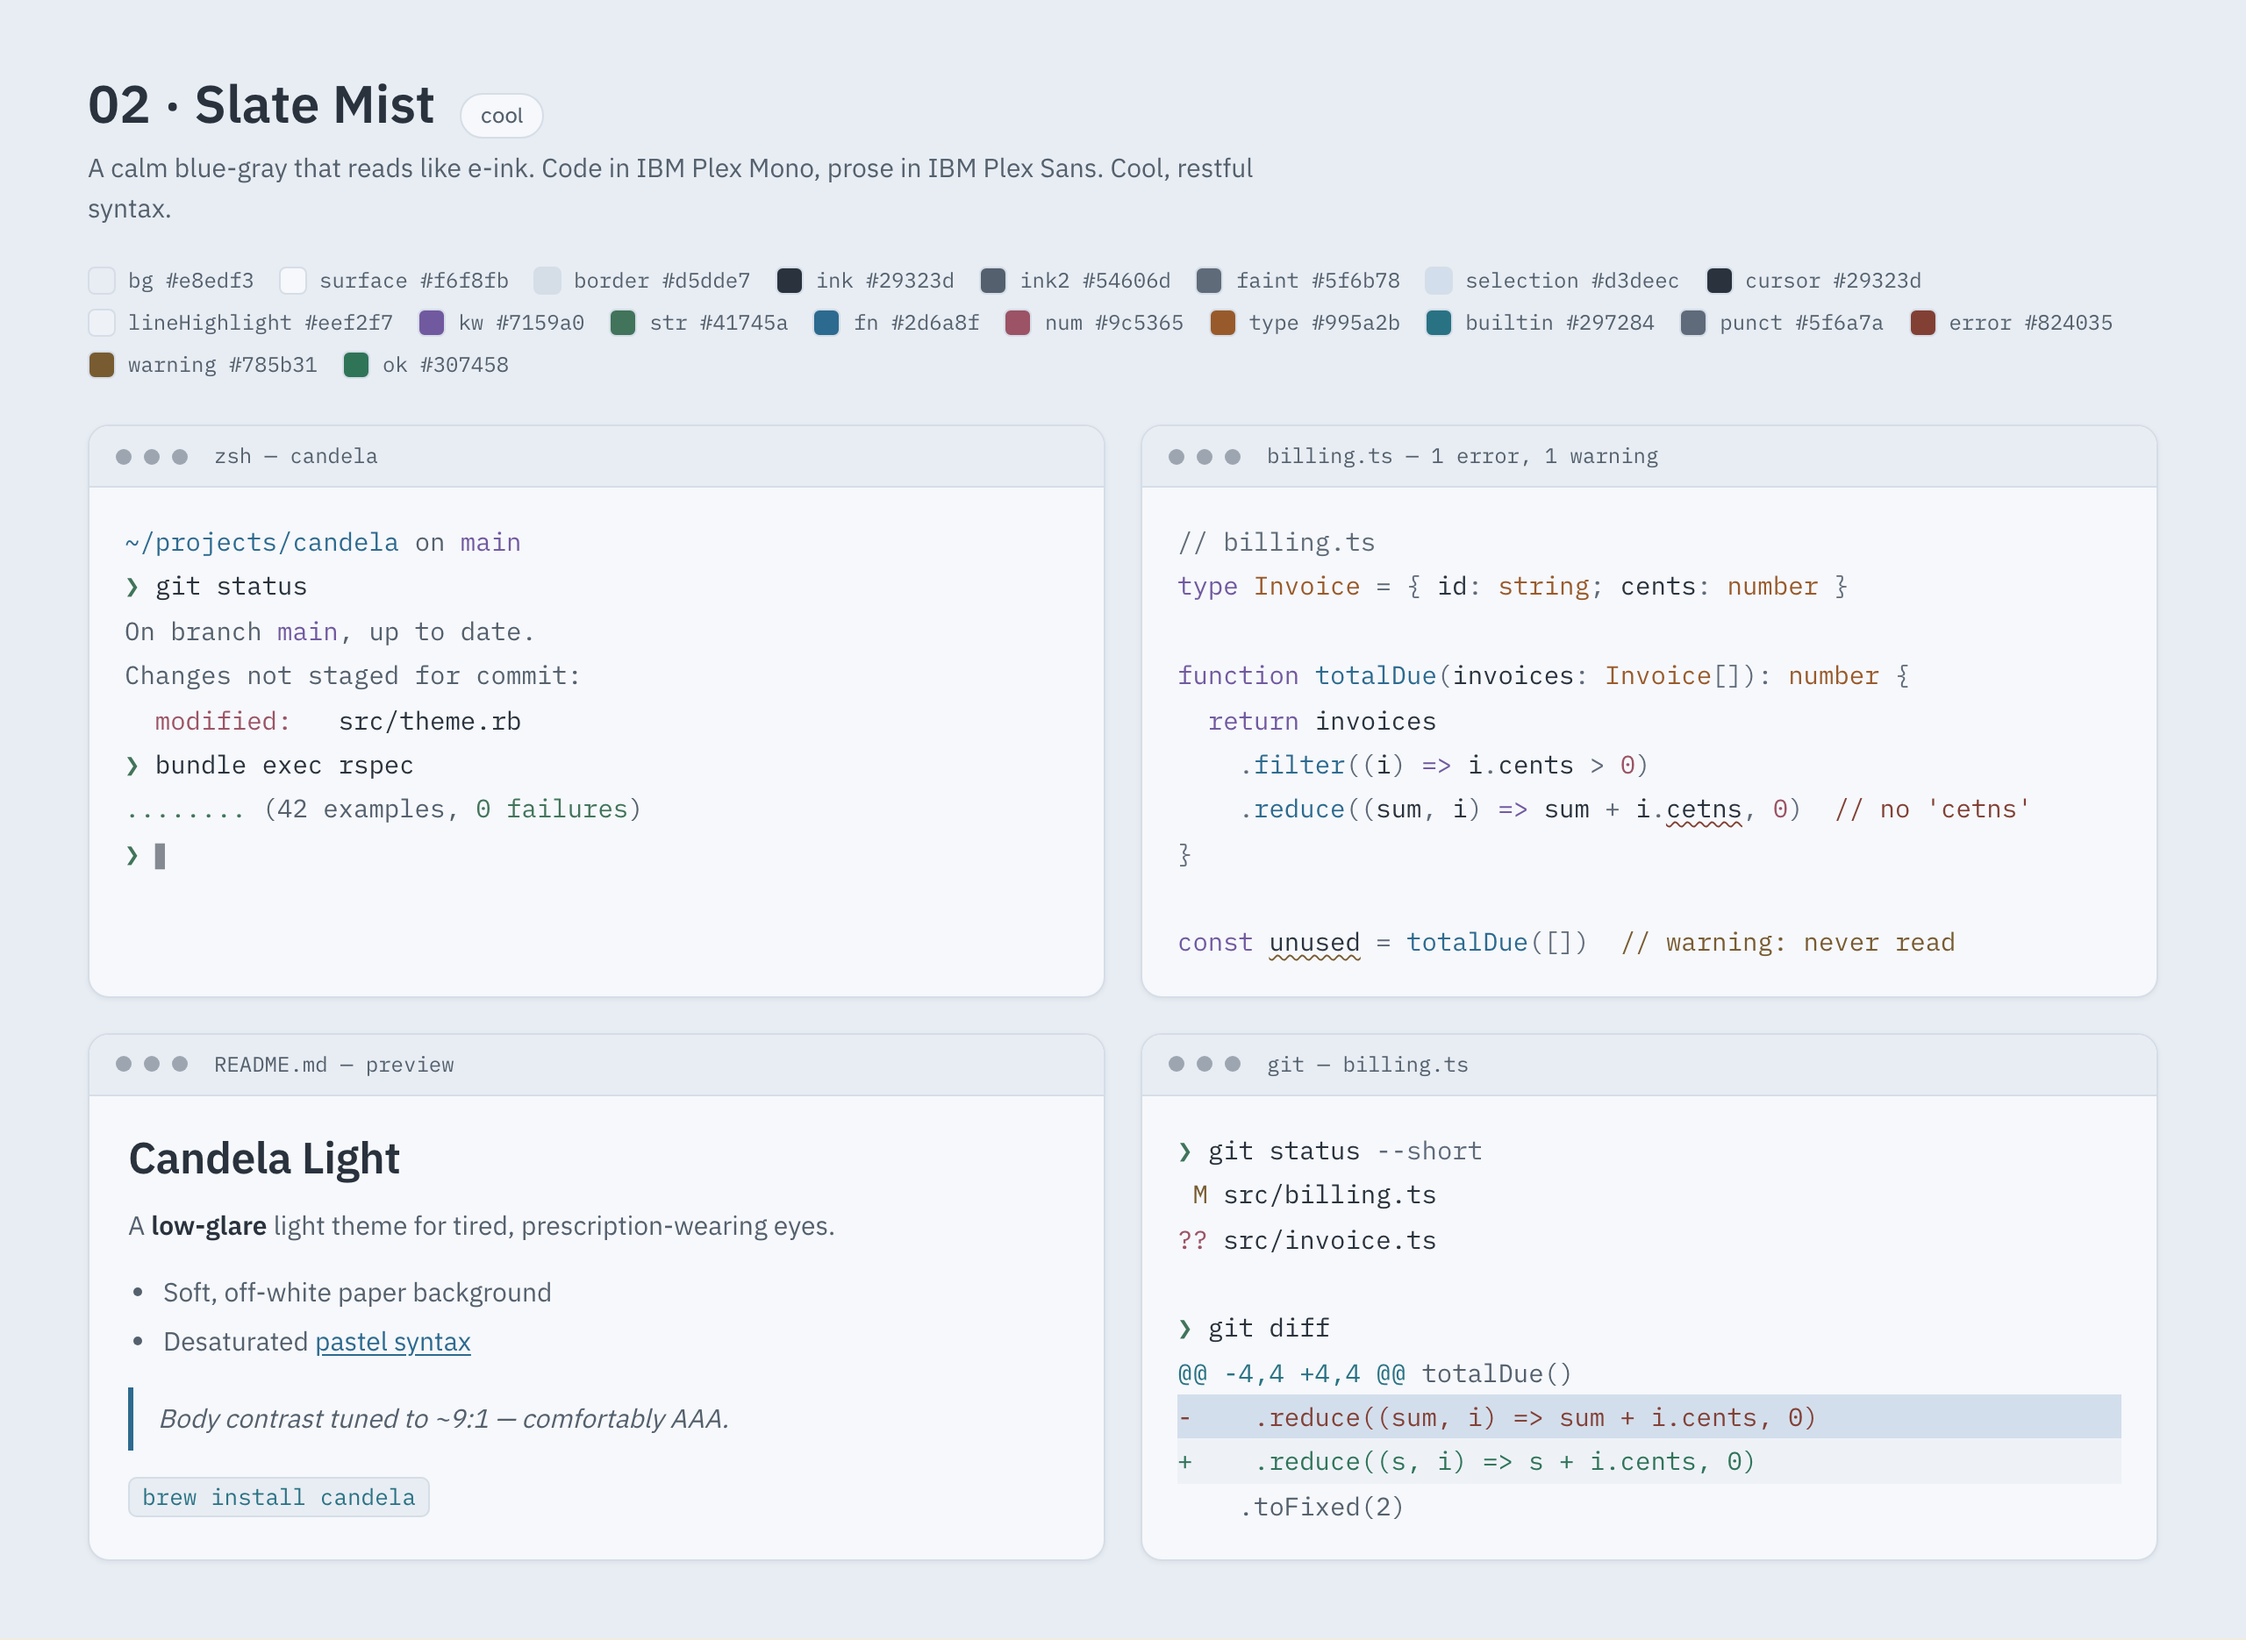
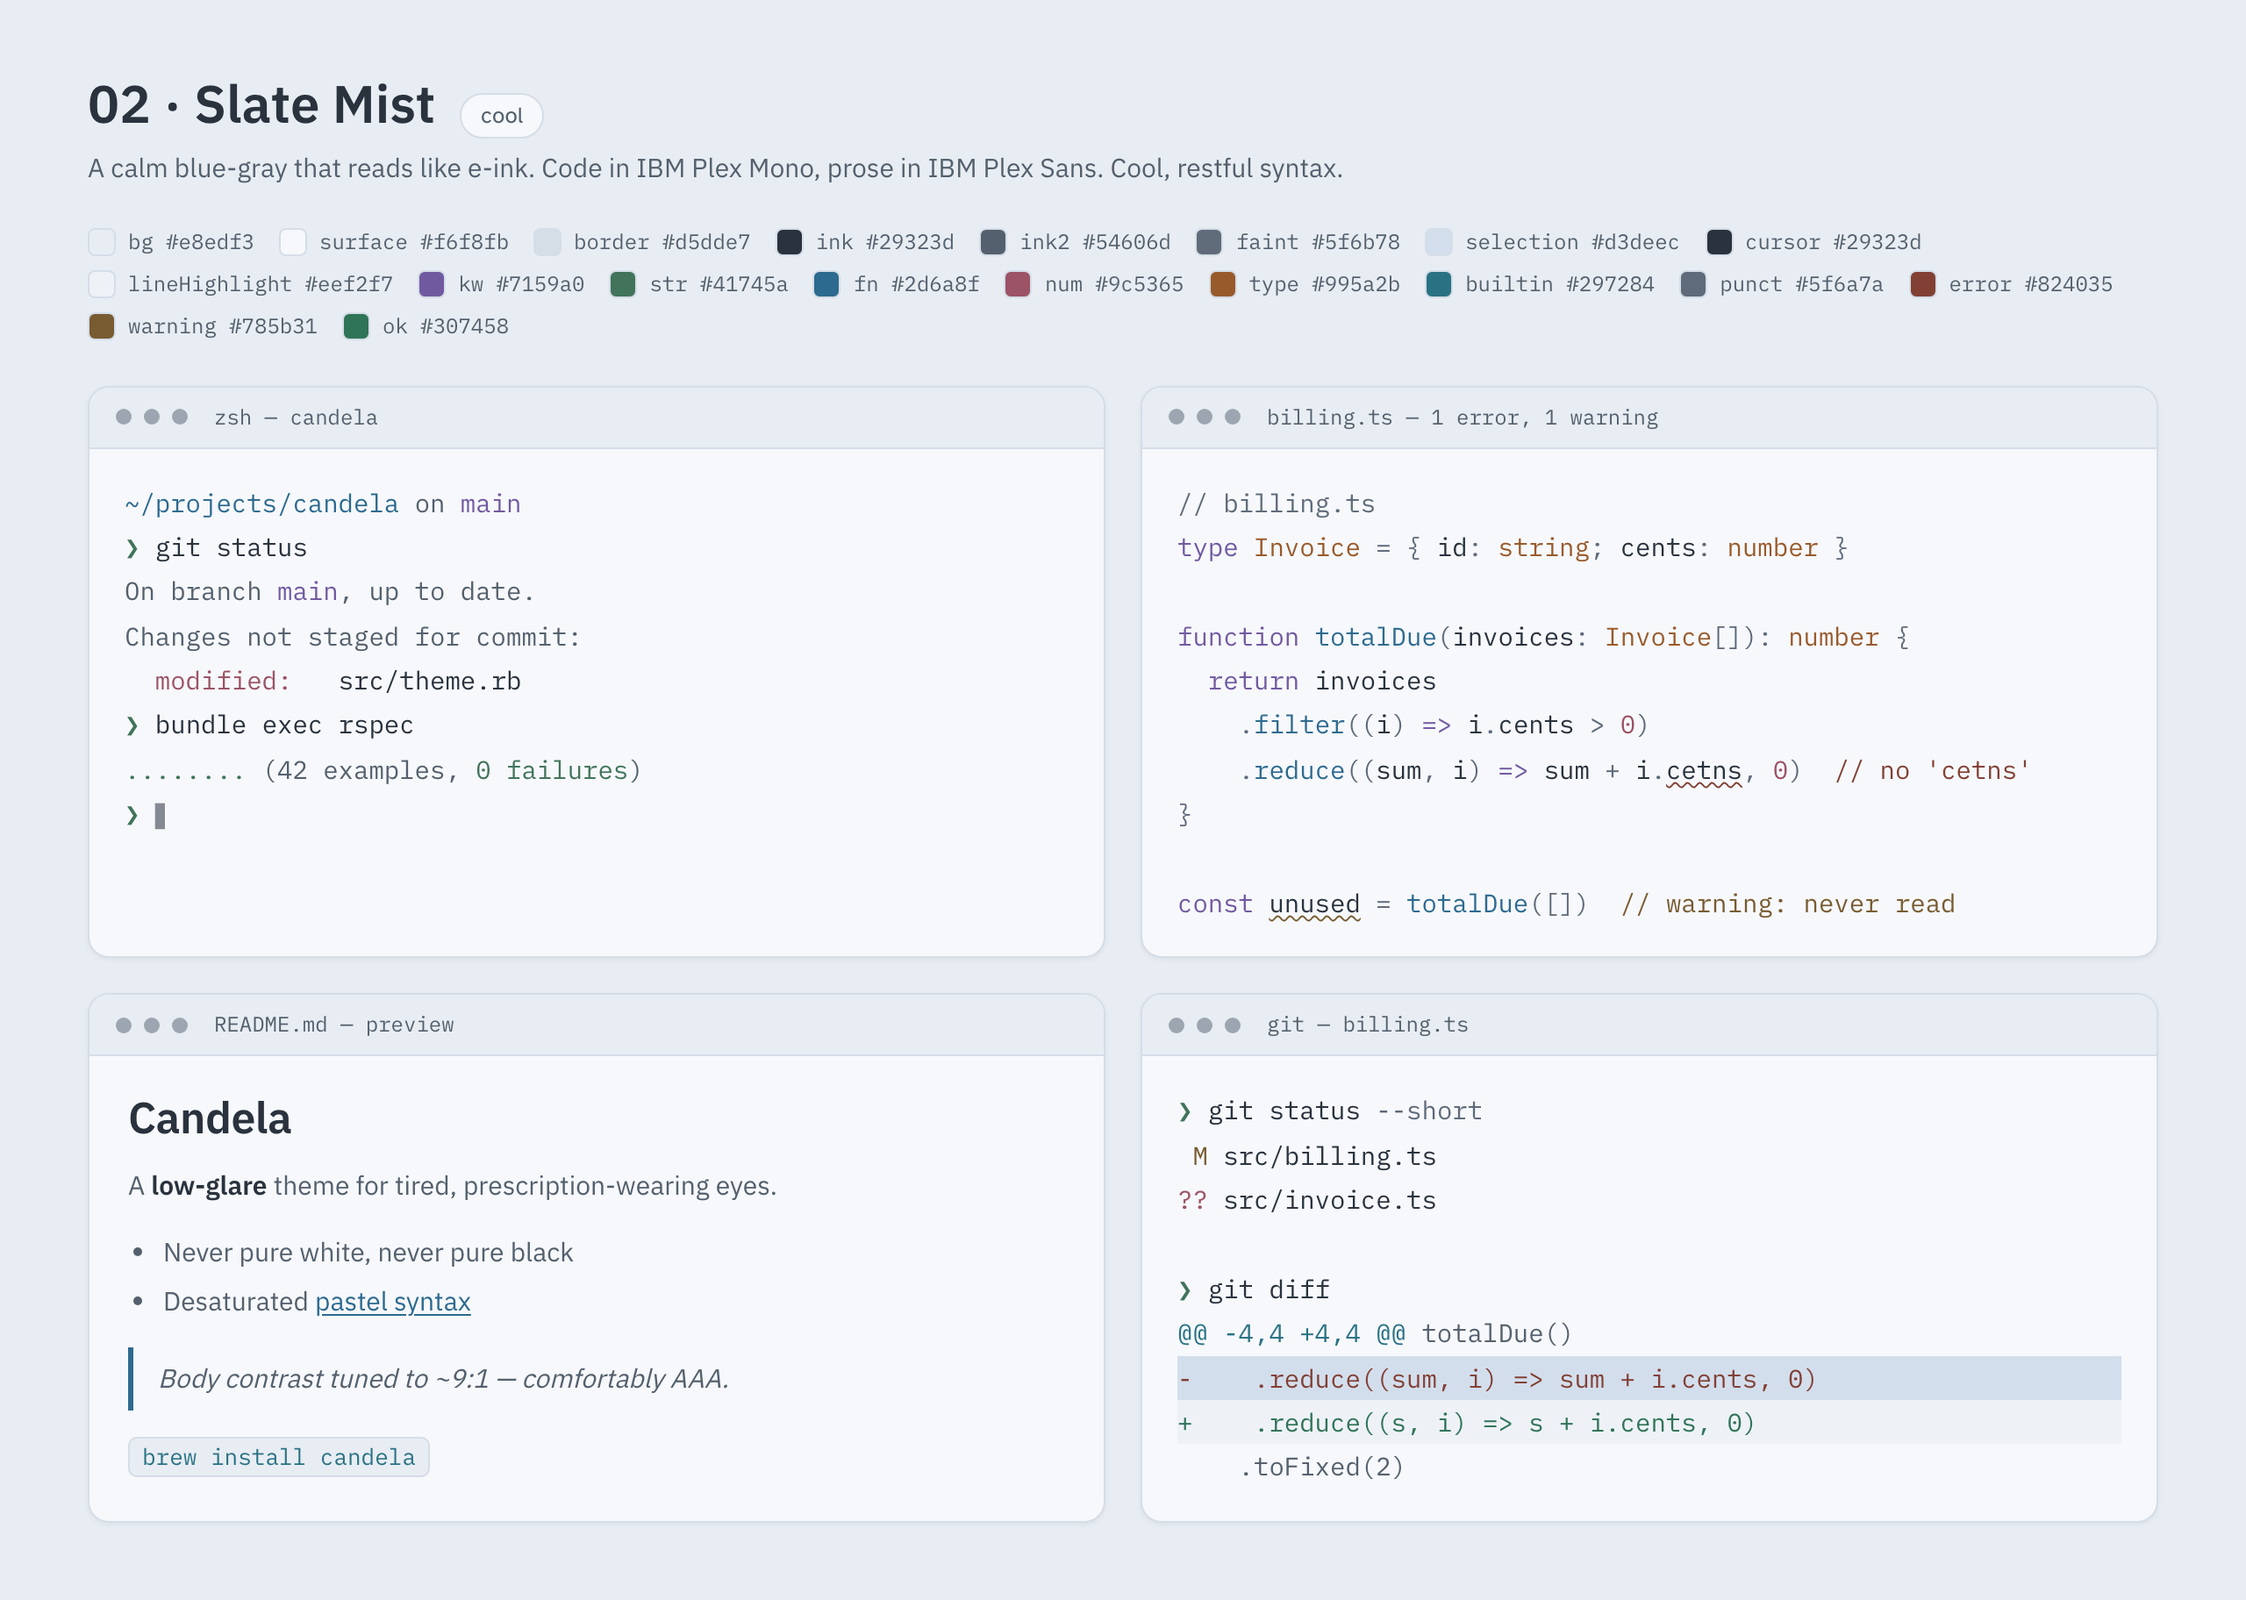
fix sample-pane copy, gallery caption wrap, and 404 screenshot URLs in listings

diff --git a/lib/emitters.js b/lib/emitters.js
@@ -349,13 +349,22 @@ const whyMarkdown = ['## Why Candela', '', ...WHY_CANDELA.map(([title, body]) =>
 const whyHtml =
   '<h3>Why Candela</h3><ul>' + WHY_CANDELA.map(([title, body]) => `<li><b>${title}</b> — ${body}</li>`).join('') + '</ul>';
 
-const shotUrl = (id) => `${REPO_URL}/raw/main/docs/screenshots/candela-${id}.png`;
-const heroMarkdown = `![Candela preview](${shotUrl('sepia-paper')})`;
-const previewMarkdown = [
+// Committed gallery images are `examples/candela-<NN>-<id>.png`, where NN is the
+// 1-based theme order (see docs/screenshots/README.md). The number is derived from
+// the themes array rather than written out, so reordering themes can't leave these
+// URLs pointing at a 404 the way the pre-`examples/` paths silently did.
+const shotUrl = (themes, id) => {
+  const index = themes.findIndex((t) => t.id === id);
+  if (index === -1) throw new Error(`shotUrl: no theme with id "${id}" — fix the showcase list`);
+  const number = String(index + 1).padStart(2, '0');
+  return `${REPO_URL}/raw/main/docs/screenshots/examples/candela-${number}-${id}.png`;
+};
+const heroMarkdown = (themes) => `![Candela preview](${shotUrl(themes, 'sepia-paper')})`;
+const previewMarkdown = (themes) => [
   '## Previews',
   '',
   ...[['slate-mist', 'Slate Mist'], ['meadow', 'Meadow'], ['nocturne', 'Nocturne']].map(
-    ([id, name]) => `![${name}](${shotUrl(id)})`,
+    ([id, name]) => `![${name}](${shotUrl(themes, id)})`,
   ),
 ].join('\n');
 
@@ -364,17 +373,17 @@ const GENERATED_NOTE = '> Generated from the Candela source of truth — do not 
 // Ships only what the extension needs; keeps `vsce package` from bundling cruft.
 const VSCODE_IGNORE = ['.vscode/**', '**/*.map', '.gitignore', 'vsc-extension-quickstart.md', ''].join('\n');
 
-function vscodeReadme() {
+function vscodeReadme(themes) {
   return [
     '# Candela Themes',
     '',
     DESCRIPTION,
     '',
-    heroMarkdown,
+    heroMarkdown(themes),
     '',
     whyMarkdown,
     '',
-    previewMarkdown,
+    previewMarkdown(themes),
     '',
     'After installing, open **Preferences: Color Theme** and pick any *Candela …* entry.',
     '',
@@ -383,17 +392,17 @@ function vscodeReadme() {
   ].join('\n');
 }
 
-function sublimeReadme() {
+function sublimeReadme(themes) {
   return [
     '# Candela Themes for Sublime Text',
     '',
     DESCRIPTION,
     '',
-    heroMarkdown,
+    heroMarkdown(themes),
     '',
     whyMarkdown,
     '',
-    previewMarkdown,
+    previewMarkdown(themes),
     '',
     'After installing, choose a Candela scheme from **Preferences > Select Color Scheme**.',
     '',
@@ -402,17 +411,17 @@ function sublimeReadme() {
   ].join('\n');
 }
 
-function nvimReadme() {
+function nvimReadme(themes) {
   return [
     '# Candela Themes for Neovim',
     '',
     DESCRIPTION,
     '',
-    heroMarkdown,
+    heroMarkdown(themes),
     '',
     whyMarkdown,
     '',
-    previewMarkdown,
+    previewMarkdown(themes),
     '',
     '## Install',
     '',
@@ -1030,7 +1039,7 @@ export function emitFullFamily(themes, ansiMapping, licenseContent, iconContent,
   vscodeFamilyPackage.contributes.themes = contributes;
   vscodeFamilyPackage.icon = 'icon.png';
   files.push(file('vscode/package.json', JSON.stringify(vscodeFamilyPackage, null, 2) + '\n'));
-  files.push(file('vscode/README.md', vscodeReadme()));
+  files.push(file('vscode/README.md', vscodeReadme(themes)));
   files.push(file('vscode/.vscodeignore', VSCODE_IGNORE));
   files.push(file('vscode/LICENSE', licenseContent));
   files.push(file('vscode/icon.png', iconContent));
@@ -1094,9 +1103,9 @@ export function emitFullFamily(themes, ansiMapping, licenseContent, iconContent,
     files.push(file(`nvim/colors/candela-${theme.id}.lua`, nvimTheme));
     files.push(file(`helix/candela-${theme.id}.toml`, emitHelixTheme(theme)));
   }
-  files.push(file('sublime/README.md', sublimeReadme()));
+  files.push(file('sublime/README.md', sublimeReadme(themes)));
   files.push(file('sublime/messages.json', JSON.stringify({ install: 'messages/install.txt' }, null, 2) + '\n'));
   files.push(file('sublime/messages/install.txt', 'Candela is installed. Choose a scheme from Preferences > Select Color Scheme.\n'));
-  files.push(file('nvim/README.md', nvimReadme()));
+  files.push(file('nvim/README.md', nvimReadme(themes)));
   return { files };
 }

diff --git a/scripts/validate.js b/scripts/validate.js
@@ -31,6 +31,10 @@ const COPY_FILES = [
   'app/editor.html',
   'app/src/Home.tsx',
   'app/src/SiteShell.tsx',
+  // The sample README pane is rendered into every committed screenshot and every
+  // gallery card, so its prose is marketplace copy — it shipped "Candela Light"
+  // onto the JetBrains listing, on the dark themes included.
+  'app/src/samples/Panes.tsx',
 ];
 
 // The tagline's signature phrase. Any app source spelling it out is a second copy
@@ -40,6 +44,12 @@ const TAGLINE_PHRASE = /for tired eyes/i;
 const TAGLINE_SCANNED = ['app/src/Home.tsx', 'app/src/SiteShell.tsx'];
 
 const readCopyFile = (rel) => fs.readFileSync(path.join(ROOT, rel), 'utf8');
+
+// Comments are not copy a user ever reads, and counting them defeats the checks
+// below — a `{/* ...dark... */}` note was enough to mask a light-only claim in the
+// prose beside it. Block comments only; stripping `//` would eat URLs.
+const withoutComments = (text) =>
+  text.replace(/\{\/\*[\s\S]*?\*\/\}/g, '').replace(/\/\*[\s\S]*?\*\//g, '').replace(/<!--[\s\S]*?-->/g, '');
 
 // Pull one attribute value out of the static HTML. Deliberately not a parser:
 // these are three hand-written lines in a file we control.
@@ -75,10 +85,16 @@ function checkCopy() {
   }
 
   for (const rel of COPY_FILES) {
-    const text = readCopyFile(rel);
+    const text = withoutComments(readCopyFile(rel));
     const counts = text.match(new RegExp(copy.THEME_COUNT_PATTERN.source, 'gi')) || [];
     for (const hit of new Set(counts)) {
       failures.push(`copy: ${rel} hard-codes a theme count ("${hit.trim()}")`);
+    }
+    // File-level mode balance, the same rule the copy.js strings get: a surface
+    // that describes Candela as "light" must also name the dark companions, or
+    // it is a light-only claim. Catches prose no title/count regex can see.
+    if (/\blight\b/i.test(text) && !/\bdark\b/i.test(text)) {
+      failures.push(`copy: ${rel} describes Candela as light without naming dark`);
     }
     // Page titles are the loudest place a light-only claim hides.
     const titles = [

diff --git a/app/src/samples/Panes.tsx b/app/src/samples/Panes.tsx
@@ -124,13 +124,14 @@ function Markdown() {
         }}
       >
         <h1 style={{ margin: '0 0 12px', font: '600 25px/1.2 var(--prose-font), system-ui, sans-serif', color: 'var(--ink)', letterSpacing: '-0.01em' }}>
-          Candela Light
+          Candela
         </h1>
         <p style={{ margin: '0 0 14px' }}>
-          A <strong style={{ color: 'var(--ink)', fontWeight: 700 }}>low-glare</strong> light theme for tired, prescription-wearing eyes.
+          A <strong style={{ color: 'var(--ink)', fontWeight: 700 }}>low-glare</strong> theme for tired, prescription-wearing eyes.
         </p>
         <ul style={{ margin: '0 0 14px', paddingLeft: 20 }}>
-          <li style={{ marginBottom: 4 }}>Soft, off-white paper background</li>
+          {/* Mode-neutral: this pane renders inside the dark themes too. */}
+          <li style={{ marginBottom: 4 }}>Never pure white, never pure black</li>
           <li>Desaturated <a href="#" data-token="fn" style={{ color: 'var(--fn)', textDecoration: 'underline', textUnderlineOffset: 2 }}>pastel syntax</a></li>
         </ul>
         <blockquote style={{ margin: '0 0 14px', padding: '6px 14px', borderLeft: '3px solid var(--fn)', color: 'var(--ink2)', fontStyle: 'italic' }}>

diff --git a/app/src/styles.css b/app/src/styles.css
@@ -278,8 +278,12 @@ html.is-hydrating #root { pointer-events: none; }
   font-size: 15px;
   line-height: 1.5;
   color: var(--ink2);
-  max-width: 680px;
+  /* Descriptions run ~100-215 chars. 680px wrapped even the short ones and left a
+     single word stranded in the screenshots; this fits most on one line and lets
+     balancing even out the long ones instead of orphaning a word. */
+  max-width: 1000px;
   font-family: var(--prose-font), system-ui, sans-serif;
+  text-wrap: balance;
 }
 .swatches {
   display: flex;
